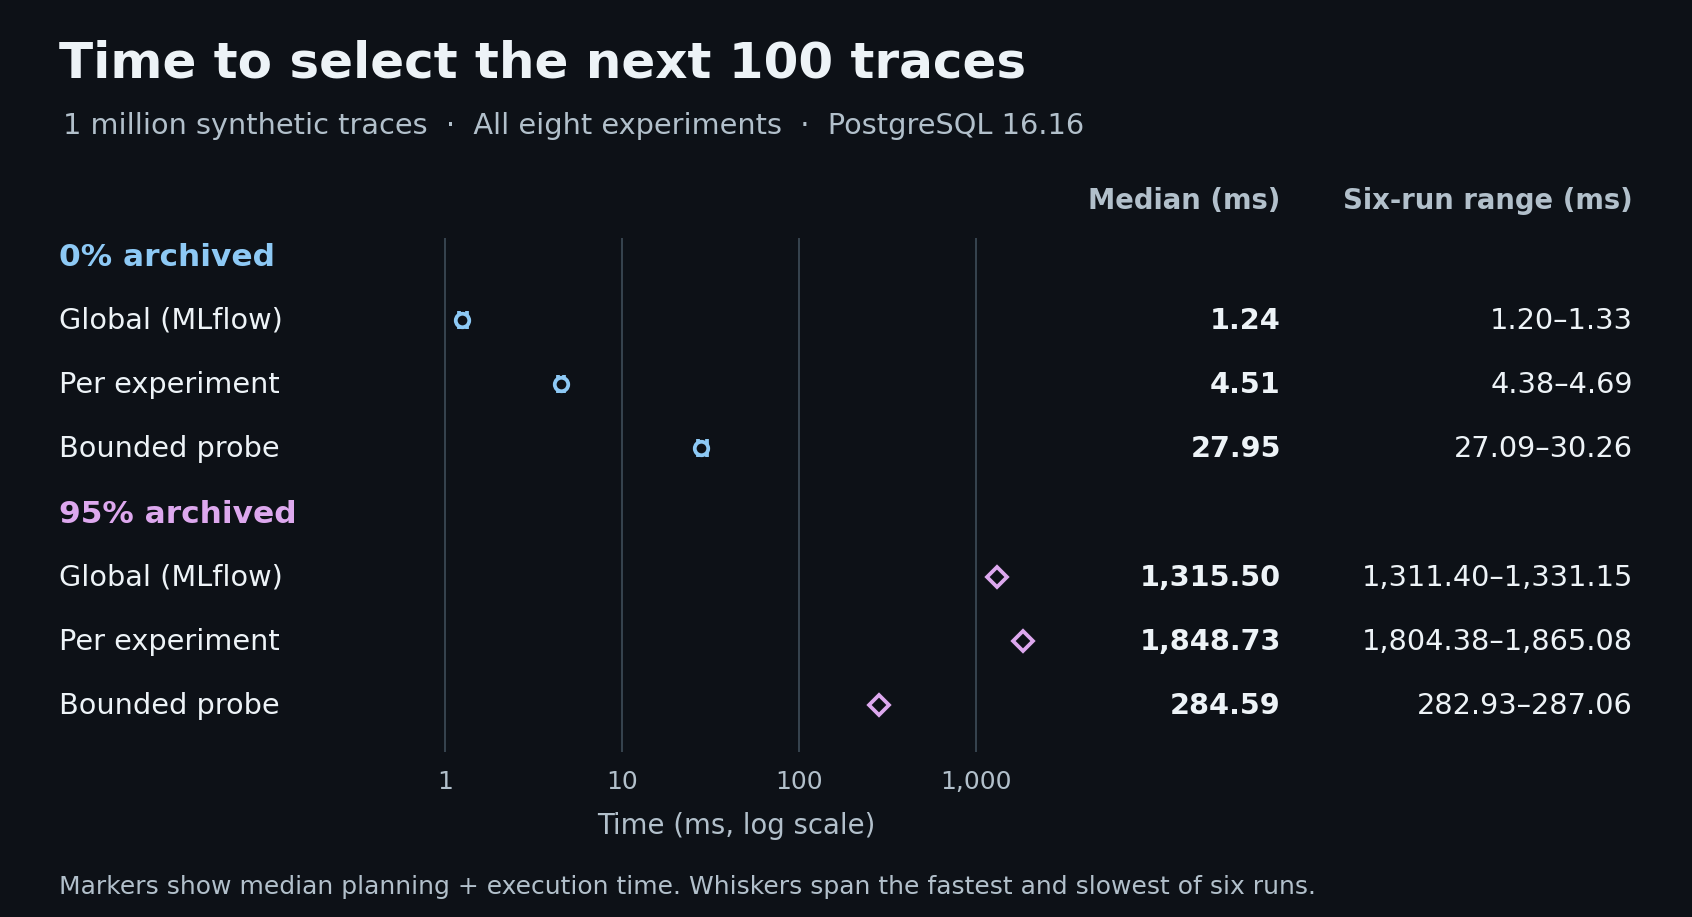
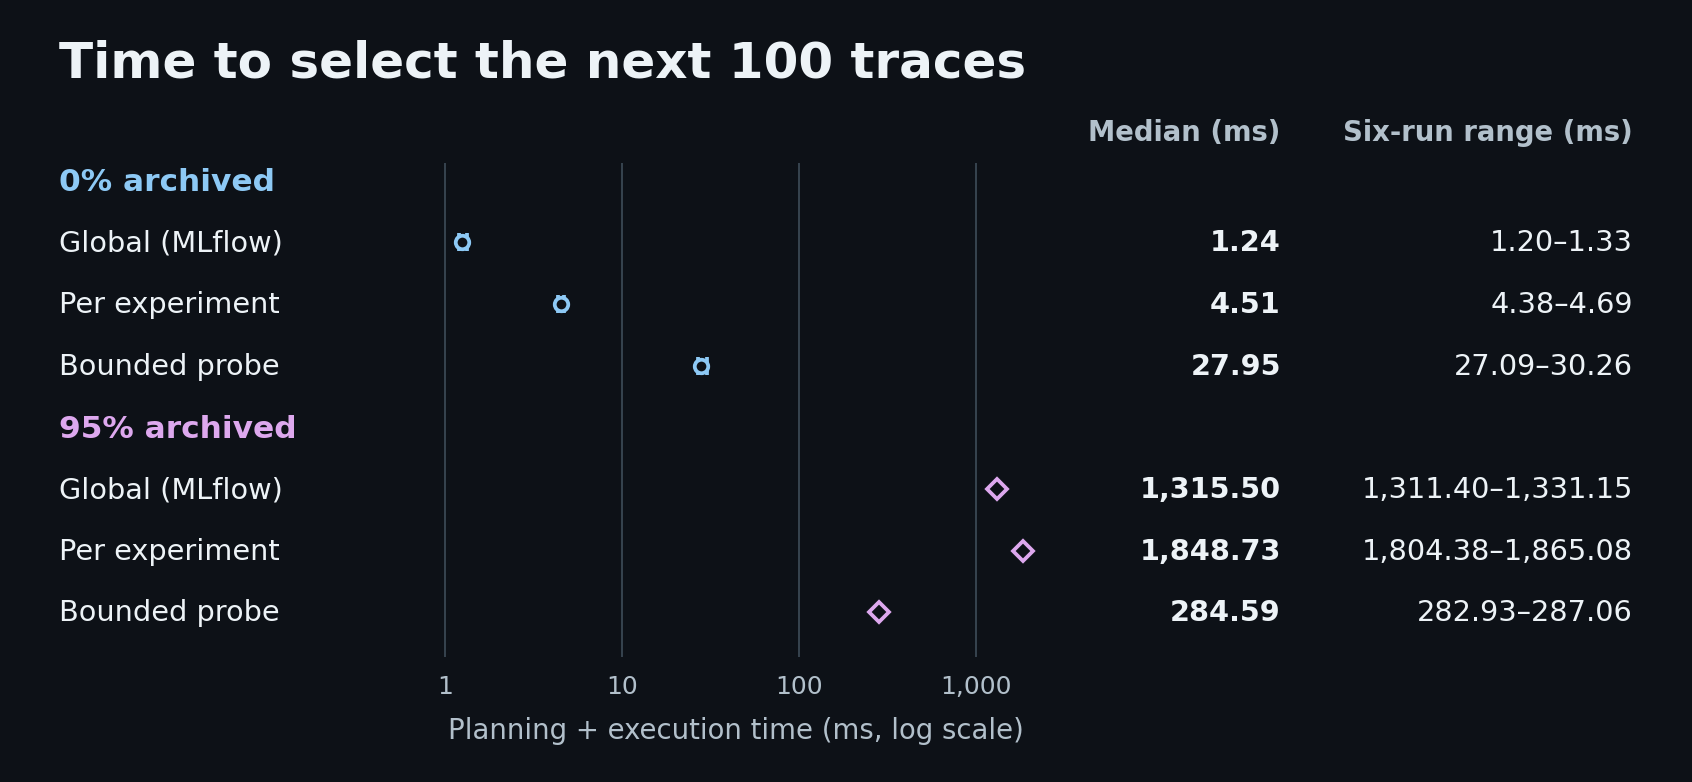
Move chart subtitles and reading notes into README captions

diff --git a/results/strategy-study/plot.py b/results/strategy-study/plot.py
@@ -48,10 +48,9 @@ def total_ms(measurement):
     return [planning + execution for planning, execution in pairs]
 
 
-def figure(height, title, caption, theme):
+def figure(height, title, theme):
     fig = plt.figure(figsize=(9.4, height), facecolor=theme.background)
     fig.text(.035, 1 - .22 / height, title, va="top", fontsize=20, weight="bold", color=theme.ink)
-    fig.text(.037, 1 - .62 / height, caption, va="top", fontsize=11.5, color=theme.muted)
     return fig
 
 
@@ -67,17 +66,15 @@ def log_axis(ax, ticks, labels, theme):
 
 
 def latency_chart(start, late, theme, suffix):
-    fig = figure(5.1, "Time to select the next 100 traces",
-                 "1 million synthetic traces  ·  All eight experiments  ·  PostgreSQL "
-                 + start["postgres_settings"]["server_version"].split()[0], theme)
-    ax = fig.add_axes([.25, .18, .37, .56])
+    fig = figure(4.35, "Time to select the next 100 traces", theme)
+    ax = fig.add_axes([.25, .16, .37, .63])
     log_axis(ax, [1, 10, 100, 1000], ["1", "10", "100", "1,000"], theme)
     ax.set(xlim=(.75, 2600), ylim=(7.05, -.95), yticks=[])
-    ax.set_xlabel("Time (ms, log scale)", fontsize=11, color=theme.muted, labelpad=7)
+    ax.set_xlabel("Planning + execution time (ms, log scale)", fontsize=11, color=theme.muted, labelpad=7)
     # Align the text columns to the plotted rows while keeping the log scale independent.
     row_coordinates = blended_transform_factory(fig.transFigure, ax.transData)
     for x, title in [(.757, "Median (ms)"), (.965, "Six-run range (ms)")]:
-        fig.text(x, .772, title, fontsize=11, weight="bold", ha="right", color=theme.muted)
+        fig.text(x, .82, title, fontsize=11, weight="bold", ha="right", color=theme.muted)
 
     for offset, report, color, marker in [(0, start, theme.fresh, "o"), (4, late, theme.late, "D")]:
         case = report["cases"][0]
@@ -97,22 +94,18 @@ def latency_chart(start, late, theme, suffix):
                 fig.text(x, y, text, transform=row_coordinates, ha=align, va="center",
                          fontsize=11.5, weight=weight, color=theme.ink)
 
-    fig.text(.035, .026, "Markers show median planning + execution time. Whiskers span the fastest "
-             "and slowest of six runs.", fontsize=10, color=theme.muted)
     fig.savefig(HERE / f"query-latency{suffix}.png", dpi=180)
     plt.close(fig)
 
 
 def scope_chart(report, theme, suffix):
-    fig = figure(4.65, "At 95% archived, scope changes which query is faster",
-                 "100,000 synthetic traces  ·  Batch limit 100  ·  Bounded probe time divided by global query time",
-                 theme)
+    fig = figure(3.95, "Bounded probe time by experiment scope", theme)
     cases = {(tuple(c["experiment_ids"]), c["archived_pct"]): c for c in report["cases"]
              if c["rows"] == 100_000 and c["batch_size"] == 100}
     scopes = [((1,), "Frequent experiment (ID 1)"), ((8,), "Rare experiment (ID 8)"), (ALL, "All eight experiments")]
-    fig.text(.036, .696, "Archived", color=theme.muted, fontsize=10.5, weight="bold")
+    fig.text(.036, .80, "Archived", color=theme.muted, fontsize=10.5, weight="bold")
     for i, (scope, title) in enumerate(scopes):
-        ax = fig.add_axes([.13 + i * .286, .215, .251, .445])
+        ax = fig.add_axes([.13 + i * .286, .22, .251, .54])
         log_axis(ax, [.25, .5, 1, 2, 4], ["¼×", "½×", "1×", "2×", "4×"], theme)
         ax.set(xlim=(.15, 6.6), ylim=(4.55, -.55))
         ax.set_title(title, fontsize=11.5, color=theme.ink, weight="bold", pad=12)
@@ -131,7 +124,7 @@ def scope_chart(report, theme, suffix):
             if i == 0:
                 ax.text(-.12, y, f"{pct}%", transform=ax.get_yaxis_transform(), ha="right",
                         va="center", color=theme.ink, fontsize=11.5)
-    fig.text(.5, .065, "Relative median time (log scale)  ·  Below 1× favors the bounded probe",
+    fig.text(.5, .055, "Median time ratio (bounded probe / global query, log scale)",
              ha="center", fontsize=11, color=theme.muted)
     fig.savefig(HERE / f"scope-and-depth{suffix}.png", dpi=180)
     plt.close(fig)

diff --git a/README.md b/README.md
@@ -15,7 +15,7 @@ On **one million synthetic traces**, MLflow’s global query selected the first 
   <img src="results/strategy-study/query-latency.png" alt="Time to select 100 traces across eight experiments. The global query was fastest at 0% archived and the bounded probe was fastest at 95% archived. Exact times and observed ranges follow.">
 </picture>
 
-Measured on PostgreSQL 16.16. Each timing includes server planning and execution. Both workloads used all eight experiments and the same indexes. [Fresh-queue samples and plan](results/strategy-study/million-start.json.gz) · [Late-queue samples and plan](results/strategy-study/million-late.json.gz) · [How the queries work](results/strategy-study/README.md#three-queries-identical-answers)
+Markers show median planning and execution time. Whiskers span the fastest and slowest of six runs. Both workloads used PostgreSQL 16.16, all eight experiments, and the same indexes. [Fresh-queue samples and plan](results/strategy-study/million-start.json.gz) · [Late-queue samples and plan](results/strategy-study/million-late.json.gz) · [How the queries work](results/strategy-study/README.md#three-queries-identical-answers)
 
 <details>
 <summary>Exact timings and observed ranges</summary>
@@ -50,7 +50,7 @@ For that workload the bounded probe took **21.52 ms**, compared with **17.26 ms*
   <img src="results/strategy-study/scope-and-depth.png" alt="Bounded probe time divided by global query time on 100,000 traces. At 95% archived, the ratios are 0.40 for the frequent experiment, 1.25 for the rare experiment and 0.26 for all eight. Values below one favor the probe.">
 </picture>
 
-[Full timing table](results/strategy-study/matrix.md) · [Raw samples and query plans](results/strategy-study/matrix.json.gz) · [Workload and timing method](results/strategy-study/README.md#workload-and-timing)
+Values below 1× favor the bounded probe. [Full timing table](results/strategy-study/matrix.md) · [Raw samples and query plans](results/strategy-study/matrix.json.gz) · [Workload and timing method](results/strategy-study/README.md#workload-and-timing)
 
 ## Reproduce the benchmark
 
